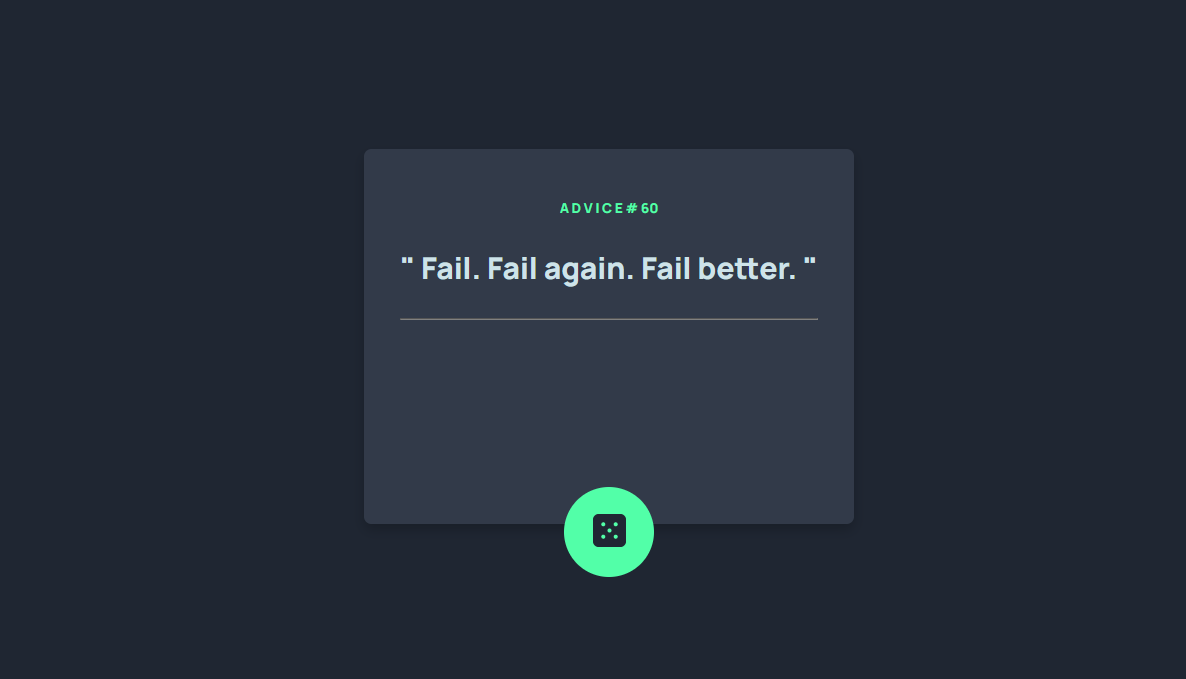
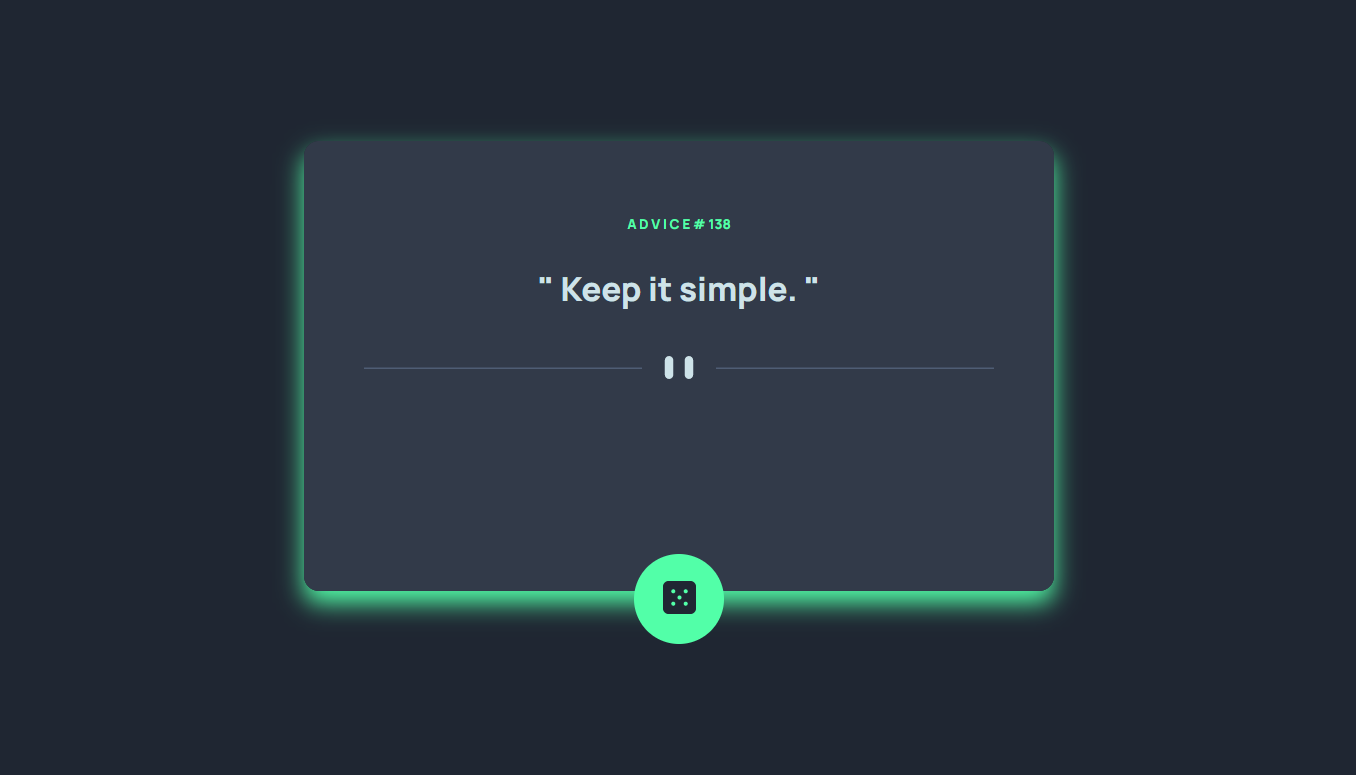
fix: max-width and padding

diff --git a/advice-generator/styles/Home.module.css b/advice-generator/styles/Home.module.css
@@ -17,11 +17,11 @@
   transition: 0.3s;
   background-color: var(--grayish-blue);
   border-radius: 10px;
-  width: 350px;
-  height: 250px;
+  width: 500px;
+  height: 300px;
   text-align: center;
-  font-size: 20px;
-  padding: 2%;
+  font-size: 22px;
+  padding: 40px;
 }
 
 .card:hover {
@@ -43,15 +43,12 @@
   border-radius: 50%;
 }
 
-@media (max-width: 375px) {
-  .main {
-    flex-direction: column;
-  }
-
+@media (max-width: 500px) {
   .card {
-    width: fit-content;
-    height: 125px;
-    font-size: 10px;
+    width: 300px;
+    height: 290px;
+    font-size: 20px;
+    padding: 20px;
   }
 
   .header {
